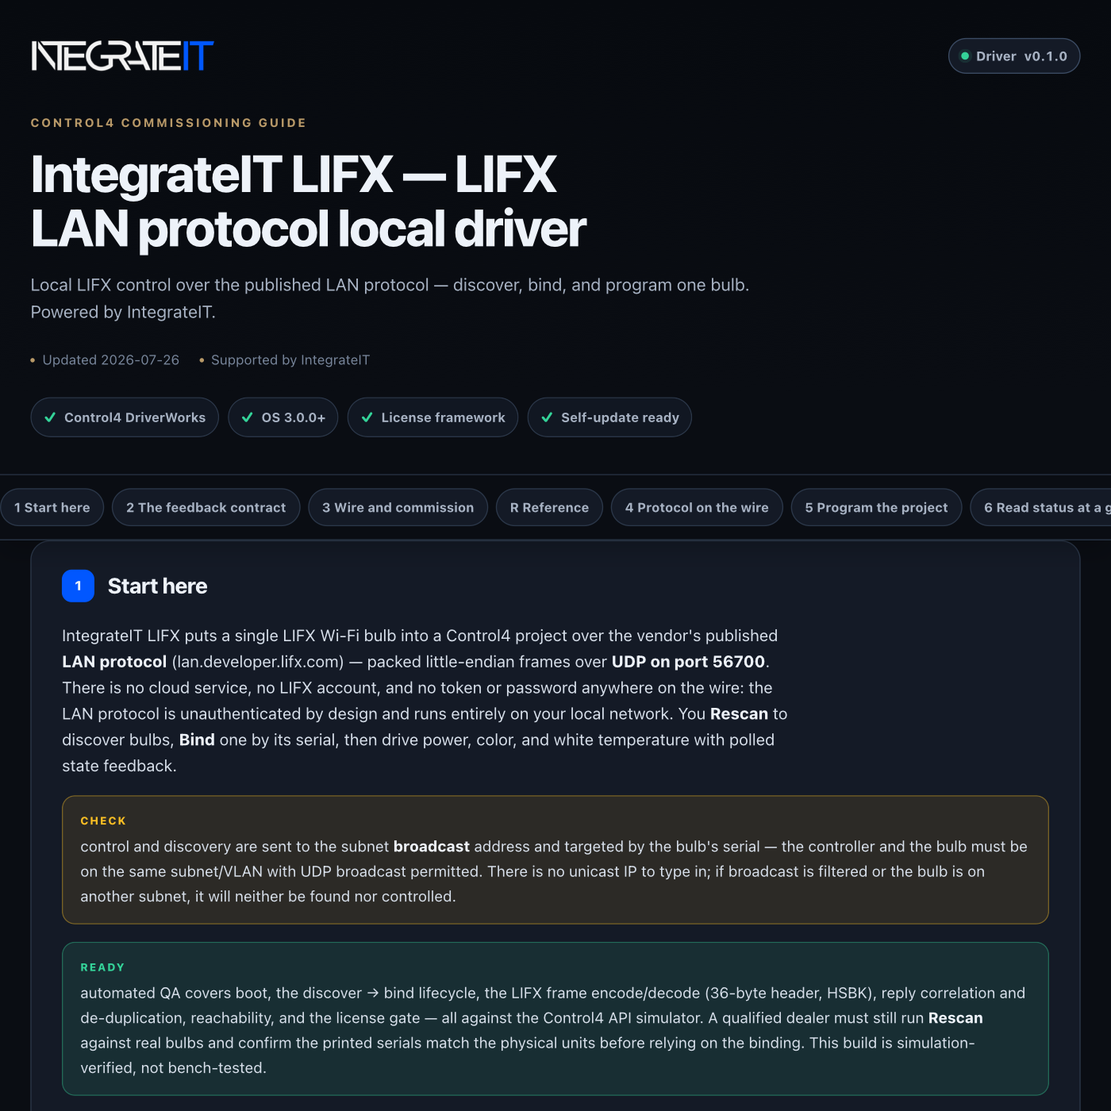
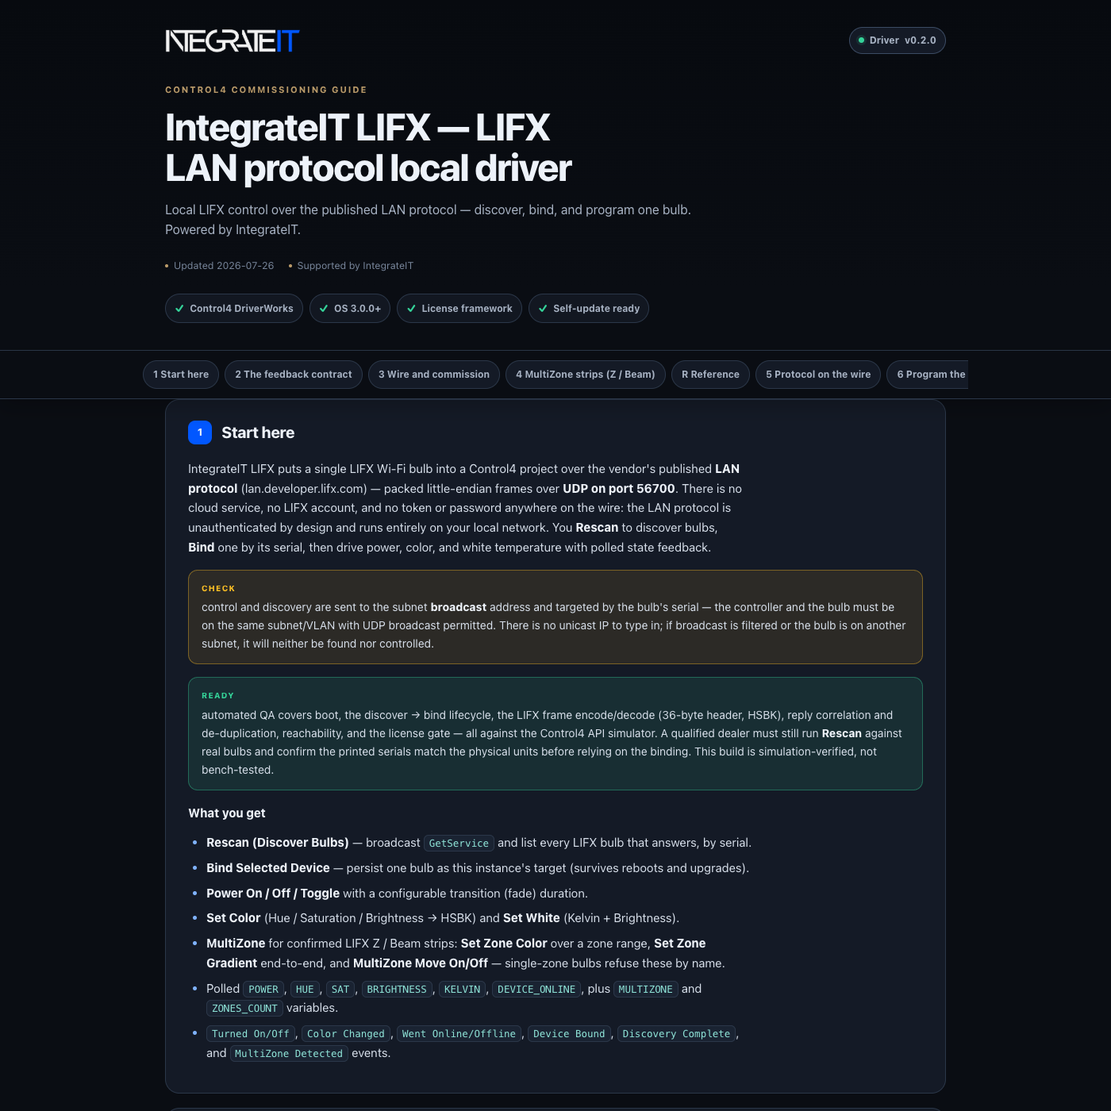
control4: publish driver channel (integrateit_lifx 0.2.0)

diff --git a/control4/integrateit_lifx/documentation.html b/control4/integrateit_lifx/documentation.html
@@ -179,7 +179,7 @@ td code{white-space:normal}
     <div class="wrap">
       <div class="brandbar">
[1 lines of base64/hex data omitted]
-        <span class="version"><span class="word">Driver</span> v0.1.0</span>
+        <span class="version"><span class="word">Driver</span> v0.2.0</span>
       </div>
       <p class="eyebrow">Control4 commissioning guide</p>
       <h1>IntegrateIT LIFX — LIFX LAN protocol local driver</h1>
@@ -198,7 +198,7 @@ td code{white-space:normal}
   </header>
 
   <div class="toc-wrap">
-    <nav class="toc wrap" aria-label="Documentation sections"><a href="#overview">1 Start here</a><a href="#feedback">2 The feedback contract</a><a href="#setup">3 Wire and commission</a><a href="#reference">R Reference</a><a href="#protocol">4 Protocol on the wire</a><a href="#programming">5 Program the project</a><a href="#status">6 Read status at a glance</a><a href="#troubleshooting">7 Troubleshoot methodically</a><a href="#trust">8 Ownership, privacy, and licensing</a><a href="#licensing">L Licensing</a><a href="#updates">U Automatic updates</a><a href="#changelog">V Version history</a></nav>
+    <nav class="toc wrap" aria-label="Documentation sections"><a href="#overview">1 Start here</a><a href="#feedback">2 The feedback contract</a><a href="#setup">3 Wire and commission</a><a href="#multizone">4 MultiZone strips (Z / Beam)</a><a href="#reference">R Reference</a><a href="#protocol">5 Protocol on the wire</a><a href="#programming">6 Program the project</a><a href="#status">7 Read status at a glance</a><a href="#troubleshooting">8 Troubleshoot methodically</a><a href="#trust">9 Ownership, privacy, and licensing</a><a href="#licensing">L Licensing</a><a href="#updates">U Automatic updates</a><a href="#changelog">V Version history</a></nav>
   </div>
 
   <main class="wrap">
@@ -213,8 +213,9 @@ td code{white-space:normal}
     <li><b>Bind Selected Device</b> — persist one bulb as this instance's target (survives reboots and upgrades).</li>
     <li><b>Power On / Off / Toggle</b> with a configurable transition (fade) duration.</li>
     <li><b>Set Color</b> (Hue / Saturation / Brightness → HSBK) and <b>Set White</b> (Kelvin + Brightness).</li>
-    <li>Polled <code>POWER</code>, <code>HUE</code>, <code>SAT</code>, <code>BRIGHTNESS</code>, <code>KELVIN</code>, and <code>DEVICE_ONLINE</code> variables.</li>
-    <li><code>Turned On/Off</code>, <code>Color Changed</code>, <code>Went Online/Offline</code>, <code>Device Bound</code>, and <code>Discovery Complete</code> events.</li>
+    <li><b>MultiZone</b> for confirmed LIFX Z / Beam strips: <b>Set Zone Color</b> over a zone range, <b>Set Zone Gradient</b> end-to-end, and <b>MultiZone Move On/Off</b> — single-zone bulbs refuse these by name.</li>
+    <li>Polled <code>POWER</code>, <code>HUE</code>, <code>SAT</code>, <code>BRIGHTNESS</code>, <code>KELVIN</code>, <code>DEVICE_ONLINE</code>, plus <code>MULTIZONE</code> and <code>ZONES_COUNT</code> variables.</li>
+    <li><code>Turned On/Off</code>, <code>Color Changed</code>, <code>Went Online/Offline</code>, <code>Device Bound</code>, <code>Discovery Complete</code>, and <code>MultiZone Detected</code> events.</li>
   </ul>
 </section>
 
@@ -236,9 +237,28 @@ td code{white-space:normal}
     <li>Run <b>Power On</b> (or <b>Set Color</b>) and watch the bulb react, then confirm <code>POWER</code>/<code>DEVICE_ONLINE</code> update on the next poll.</li>
     <li>Reboot the controller and confirm <code>Bound Device</code> still names the same serial — the binding is persisted, not re-discovered.</li>
   </ol>
+</section>
+
+<section class="card" id="multizone" data-card="multizone">
+  <h2><span class="n">4</span> MultiZone strips (Z / Beam)</h2>
+  <p>A LIFX <b>Z</b> or <b>Beam</b> is a strip of individually addressable <b>zones</b>. This driver drives those zones over the vendor's extended-zone message, but only after it has <b>positively confirmed</b> the bound bulb is multizone — it never assumes.</p>
+  <p>Capability is detected honestly, from the device itself:</p>
+  <ul>
+    <li>On bind and on each poll while still unknown, the driver asks <code>GetVersion</code> (32) and <code>GetExtendedColorZones</code> (511). A <code>StateVersion</code> (33) whose <b>product id</b> is a known multizone model (LIFX Z 31/32, Beam 38 — the embedded subset of LIFX's official products registry), <b>or</b> a <code>StateExtendedColorZones</code> (512) reply, flips <code>MULTIZONE</code> to <code>yes</code>, publishes the real <code>ZONES_COUNT</code>, and fires <code>MultiZone Detected</code>.</li>
+    <li>A product id we recognize as a plain bulb sets <code>MULTIZONE</code> to <code>no</code>.</li>
+    <li>If nothing has answered yet, <code>MULTIZONE</code> stays <code>unknown</code> and <b>zone commands are refused</b> — the Status line says capability isn't confirmed and to run <b>Detect MultiZone</b>. Run it manually against a Z/Beam if you don't want to wait for the poll.</li>
+  </ul>
+  <p>Once confirmed:</p>
+  <ul>
+    <li><b>Set Zone Color</b> paints zones <b>Zone Start .. Zone End</b> (0-based, inclusive) one HSBK color from Hue/Saturation/Brightness/Kelvin.</li>
+    <li><b>Set Zone Gradient</b> ramps from the start color (Hue/Saturation/Brightness) to the end color (<b>Hue End</b> / <b>Saturation End</b> / <b>Brightness End</b>), Kelvin shared, spread across the detected zone count — or the <b>Zones (strip length)</b> you configured until the bulb reports its own.</li>
+    <li><b>MultiZone Move On/Off</b> starts/stops the LIFX Move effect at <b>Move Speed (ms)</b>.</li>
+  </ul>
+  <div class="note warn">a single strip can carry more than 82 zones, but one extended-zone message holds at most <b>82</b> HSBK colors. Longer strips are split automatically: every message but the last is sent with <b>apply = NO_APPLY</b> and the final one with <b>apply = APPLY</b>, so the whole strip lands in one atomic update rather than visibly repainting in bands.</div>
+  <div class="note"><b>extended zones need recent strip firmware.</b> An older LIFX Z may need a firmware update (in the LIFX app) before <code>SetExtendedColorZones</code> takes effect; the legacy <code>SetColorZones</code> (501) path is intentionally not written. A single-zone bulb refuses every zone command by name — nothing is sent to the wire.</div>
 <section class="card" id="reference" data-card="reference">
   <h2><span class="n">R</span> Reference</h2>
-  <p>Generated from the driver manifest at build time — always matches this build (v0.1.0).</p>
+  <p>Generated from the driver manifest at build time — always matches this build (v0.2.0).</p>
   <h3>Properties</h3>
   <table>
     <tr><th>Property</th><th>Type</th><th>Default</th><th>Description</th></tr>
@@ -250,7 +270,14 @@ td code{white-space:normal}
     <tr><td><code>Hue</code></td><td>INTEGER 0–360</td><td><code>200</code></td><td>Hue in degrees (0-360) sent by Set Color, together with Saturation and Brightness.</td></tr>
     <tr><td><code>Saturation</code></td><td>INTEGER 0–100</td><td><code>100</code></td><td>Saturation percent (0-100) sent by Set Color.</td></tr>
     <tr><td><code>Brightness</code></td><td>INTEGER 0–100</td><td><code>100</code></td><td>Brightness percent (0-100) sent by Set Color and Set White.</td></tr>
-    <tr><td><code>Kelvin</code></td><td>INTEGER 1500–9000</td><td><code>3500</code></td><td>White color temperature in Kelvin (1500-9000) sent by Set White.</td></tr>
+    <tr><td><code>Kelvin</code></td><td>INTEGER 1500–9000</td><td><code>3500</code></td><td>White color temperature in Kelvin (1500-9000) sent by Set White and shared by the gradient endpoints.</td></tr>
+    <tr><td><code>Zones (strip length)</code></td><td>INTEGER 1–2048</td><td><code>16</code></td><td>Number of zones on your LIFX Z / Beam, used to spread Set Zone Gradient. Reflected in ZONES_COUNT until the bulb reports its own count.</td></tr>
+    <tr><td><code>Zone Start</code></td><td>INTEGER 0–2047</td><td><code>0</code></td><td>First zone (0-based) painted by Set Zone Color.</td></tr>
+    <tr><td><code>Zone End</code></td><td>INTEGER 0–2047</td><td><code>0</code></td><td>Last zone (0-based, inclusive) painted by Set Zone Color.</td></tr>
+    <tr><td><code>Hue End</code></td><td>INTEGER 0–360</td><td><code>0</code></td><td>Hue (degrees) of the far end of Set Zone Gradient; the near end is the Hue property.</td></tr>
+    <tr><td><code>Saturation End</code></td><td>INTEGER 0–100</td><td><code>100</code></td><td>Saturation percent of the far end of Set Zone Gradient.</td></tr>
+    <tr><td><code>Brightness End</code></td><td>INTEGER 0–100</td><td><code>100</code></td><td>Brightness percent of the far end of Set Zone Gradient.</td></tr>
+    <tr><td><code>Move Speed (ms)</code></td><td>INTEGER 100–300000</td><td><code>5000</code></td><td>Cycle time for the MultiZone Move effect (ms per pass along the strip).</td></tr>
     <tr><td><code>Device Status</code> <span class="pill blue">read-only</span></td><td>STRING</td><td><code>Unknown</code></td><td>Live discovery/bind/reachability state and the last polled bulb state.</td></tr>
   </table>
   <p><b>Standard IntegrateIT properties</b> — licensing, self-update, and diagnostics, auto-injected into every IntegrateIT driver:</p>
@@ -276,6 +303,10 @@ td code{white-space:normal}
     <tr><td><code>Toggle Power</code></td><td>Toggle power based on the last polled state (turns on if the state is not yet known).</td></tr>
     <tr><td><code>Set Color</code></td><td>Set color from the Hue, Saturation, and Brightness properties (HSBK), with the configured transition.</td></tr>
     <tr><td><code>Set White</code></td><td>Set white from the Kelvin and Brightness properties (saturation 0), with the configured transition.</td></tr>
+    <tr><td><code>Set Zone Color</code></td><td>Paint zones Zone Start..Zone End of a confirmed LIFX Z / Beam one HSBK color via SetExtendedColorZones (auto-chunked at 82 zones). Refused on single-zone bulbs.</td></tr>
+    <tr><td><code>Set Zone Gradient</code></td><td>Ramp a confirmed strip from the start color (Hue/Saturation/Brightness) to the end color (Hue End/Saturation End/Brightness End) across its zones. Refused on single-zone bulbs.</td></tr>
+    <tr><td><code>MultiZone Move On</code></td><td>Start the LIFX Move effect on a confirmed strip (SetMultiZoneEffect) at Move Speed. Refused on single-zone bulbs.</td></tr>
+    <tr><td><code>MultiZone Move Off</code></td><td>Stop the LIFX Move effect on a confirmed strip.</td></tr>
     <tr><td><code>Refresh State</code></td><td>Poll the bound bulb now instead of waiting for the next interval.</td></tr>
   </table>
   <h3>Actions (Composer Actions tab)</h3>
@@ -283,6 +314,7 @@ td code{white-space:normal}
     <tr><th>Action</th><th>Command</th></tr>
     <tr><td>Rescan (Discover Bulbs)</td><td><code>RESCAN</code></td></tr>
     <tr><td>Bind Selected Device</td><td><code>BIND</code></td></tr>
+    <tr><td>Detect MultiZone</td><td><code>DETECT_MZ</code></td></tr>
     <tr><td>Unbind</td><td><code>UNBIND</code></td></tr>
     <tr><td>Ping Bulb (Echo)</td><td><code>ECHO</code></td></tr>
     <tr><td>Print Configuration</td><td><code>PRINT_CONFIG</code></td></tr>
@@ -300,6 +332,7 @@ td code{white-space:normal}
     <tr><td>16</td><td>Went Offline</td><td>The bound bulb stopped replying within the poll window.</td></tr>
     <tr><td>17</td><td>Device Bound</td><td>A discovered bulb was bound as this driver's target.</td></tr>
     <tr><td>18</td><td>Discovery Complete</td><td>A Rescan finished collecting StateService replies (see the discovered list in Debug).</td></tr>
+    <tr><td>19</td><td>MultiZone Detected</td><td>The bound bulb was positively confirmed as a multizone LIFX Z / Beam (by product id or a StateExtendedColorZones reply); zone commands are now allowed.</td></tr>
     <tr><td>1001</td><td>Update Available <span class="pill blue">shared</span></td><td>A newer driver version is available from IntegrateIT</td></tr>
     <tr><td>1002</td><td>License Problem <span class="pill blue">shared</span></td><td>License key invalid, revoked, or bound to a different controller</td></tr>
   </table>
@@ -307,7 +340,7 @@ td code{white-space:normal}
 </section>
 
 <section class="card" id="protocol" data-card="protocol">
-  <h2><span class="n">4</span> Protocol on the wire</h2>
+  <h2><span class="n">5</span> Protocol on the wire</h2>
   <p>Every frame is a <b>36-byte header + payload</b>, all little-endian. The header carries a size, a 16-bit protocol/flags field (<code>protocol 1024 | addressable | tagged</code>), the 32-bit <code>source</code>, the 6-byte target <b>serial</b>, <code>res</code>/<code>ack</code> flag bits, an 8-bit <code>sequence</code>, and a 16-bit message <code>type</code>. Color is <b>HSBK</b> — four <code>u16</code> values (hue, saturation, brightness, Kelvin).</p>
   <ul>
     <li><b>Discovery</b> — <code>GetService</code> (2, tagged, target = all) → each bulb answers <code>StateService</code> (3) naming its UDP service and port.</li>
@@ -315,21 +348,24 @@ td code{white-space:normal}
     <li><b>Color / White</b> — <code>SetColor</code> (102): reserved byte + HSBK + duration <code>u32</code>. White is HSBK with saturation 0.</li>
     <li><b>Feedback</b> — <code>Light Get</code> (101, <code>res_required</code>) → <code>State</code> (107): HSBK + power.</li>
     <li><b>Keepalive</b> — <code>EchoRequest</code> (58) → <code>EchoResponse</code> (59).</li>
+    <li><b>Capability</b> — <code>GetVersion</code> (32) → <code>StateVersion</code> (33): product id; <code>GetExtendedColorZones</code> (511) → <code>StateExtendedColorZones</code> (512): zones_count + zone colors.</li>
+    <li><b>MultiZone</b> — <code>SetExtendedColorZones</code> (510): duration <code>u32</code>, apply <code>u8</code>, zone_index <code>u16</code>, colors_count <code>u8</code>, then a fixed 82-entry HSBK array. <code>SetMultiZoneEffect</code> (508) runs the Move effect.</li>
   </ul>
   <p>The LAN protocol has <b>no error packets</b> — malformed or excessively frequent frames simply cause "unexpected device behavior," so the driver paces itself on fixed timers (no retry storms) and turn <code>Debug Mode → Print</code> on to watch each frame's <b>type and sequence</b> (never raw bytes) in the Lua output window.</p>
 </section>
 
 <section class="card" id="programming" data-card="programming">
-  <h2><span class="n">5</span> Program the project</h2>
+  <h2><span class="n">6</span> Program the project</h2>
   <ul>
     <li>When <b>Discovery Complete</b> fires → notify the installer that the scan finished, then read the printed serials.</li>
     <li>When <b>Went Offline</b> fires → surface a "bulb unreachable" notification or fall back to another light.</li>
     <li>When <b>Turned On</b> fires → run a room scene; use the <code>BRIGHTNESS</code>/<code>KELVIN</code> variables to mirror the bulb's level elsewhere.</li>
+    <li>When <b>MultiZone Detected</b> fires (or gate on <code>MULTIZONE == yes</code>) → enable a strip scene: set <b>Set Zone Gradient</b> for a sunrise wash, or <b>MultiZone Move On</b> for a moving accent.</li>
   </ul>
 </section>
 
 <section class="card" id="status" data-card="status">
-  <h2><span class="n">6</span> Read status at a glance</h2>
+  <h2><span class="n">7</span> Read status at a glance</h2>
   <table>
     <tr><th>Property / variable</th><th>Meaning</th></tr>
     <tr><td><code>Device Status</code></td><td>Live discover/bind/reachability line (<code>Scanning…</code>, <code>Discovered N bulb(s)</code>, <code>Online — On, 80%</code>, <code>Offline …</code>).</td></tr>
@@ -338,23 +374,27 @@ td code{white-space:normal}
     <tr><td><code>POWER</code></td><td><code>true</code>/<code>false</code> from the last <code>State</code> reply.</td></tr>
     <tr><td><code>HUE</code> / <code>SAT</code> / <code>BRIGHTNESS</code> / <code>KELVIN</code></td><td>Last polled color, converted to degrees / percent / percent / Kelvin.</td></tr>
     <tr><td><code>IS_BOUND</code></td><td><code>true</code> once a bulb is bound.</td></tr>
+    <tr><td><code>MULTIZONE</code></td><td><code>unknown</code> until the bulb answers, then <code>yes</code> (Z/Beam — zone commands allowed) or <code>no</code> (single-zone). Safe to gate strip programming on <code>yes</code>.</td></tr>
+    <tr><td><code>ZONES_COUNT</code></td><td>Zone count: the device's real count once read, else the configured <b>Zones (strip length)</b>.</td></tr>
   </table>
 </section>
 
 <section class="card" id="troubleshooting" data-card="troubleshooting">
-  <h2><span class="n">7</span> Troubleshoot methodically</h2>
+  <h2><span class="n">8</span> Troubleshoot methodically</h2>
   <table>
     <tr><th>Symptom</th><th>Likely cause</th><th>Fix</th></tr>
     <tr><td>Rescan finds nothing</td><td>Bulb on another subnet/VLAN, or broadcast filtered</td><td>Put the controller and bulb on the same subnet; allow UDP broadcast on port 56700.</td></tr>
     <tr><td>Bound but <code>DEVICE_ONLINE</code> stays false</td><td>Wrong serial, or the bulb is off/asleep</td><td>Rescan and re-copy the exact serial; confirm the bulb is powered.</td></tr>
     <tr><td>Commands do nothing</td><td>No bulb bound, or Strict + unlicensed</td><td>Bind a bulb first; check <code>License Status</code> if Enforcement = Strict.</td></tr>
     <tr><td>Status shows "Socket not ready"</td><td>The UDP socket has not reported ONLINE yet</td><td>Wait a moment and retry; confirm the controller's network binding is up.</td></tr>
+    <tr><td>Zone command refused</td><td>Capability not confirmed, or the bulb is single-zone</td><td>Run <b>Detect MultiZone</b> against a LIFX Z / Beam; <code>MULTIZONE</code> must read <code>yes</code>. A plain bulb has no zones.</td></tr>
+    <tr><td>Zones don't change on a Z/Beam</td><td>Strip firmware predates extended zones</td><td>Update the strip in the LIFX app; <code>SetExtendedColorZones</code> needs recent firmware.</td></tr>
   </table>
   <div class="note">turn on <code>Debug Mode → Print</code> to watch every frame's type + sequence and the discovered list in the Lua output window. Raw payload bytes are never logged.</div>
 </section>
 
 <section class="card" id="trust" data-card="trust">
-  <h2><span class="n">8</span> Ownership, privacy, and licensing</h2>
+  <h2><span class="n">9</span> Ownership, privacy, and licensing</h2>
   <p>Nothing leaves the controller and nothing leaves the LAN. The LIFX LAN protocol is <b>unauthenticated</b> — there is no token, password, or cloud key to store, so none can be logged or leaked; the only caution is that anyone on the same broadcast domain can address the bulb, so keep it on a trusted segment. The bound target (a serial) lives in <code>PersistData</code> on the controller and is only ever logged as its plain serial. <b>Set/Toggle/Color/White</b> and <b>Bind/Unbind</b> are gated by the license — re-checked again at wire-write time — so in Strict mode an unlicensed controller sends nothing; the default Lenient mode lets a dealer commission before a key is minted. The driver self-updates from the IntegrateIT channel.</p>
 </section>
 <section class="card" id="licensing" data-card="licensing">
@@ -404,7 +444,9 @@ td code{white-space:normal}
     <section class="card" id="changelog" data-card="changelog">
   <h2><span class="n">V</span> Version history</h2>
   <div class="chg">
-    <div class="rel"><b>v0.1.0</b> <span class="pill green">current</span><span class="d">2026-07-26</span>
+    <div class="rel"><b>v0.2.0</b> <span class="pill green">current</span><span class="d">2026-07-26</span>
+      <ul><li>MultiZone for LIFX Z / Beam strips over SetExtendedColorZones (type 510). Set Zone Color paints a Zone Start..Zone End range one HSBK color; Set Zone Gradient ramps start-&gt;end color across the strip. Both pack the fixed 664-byte payload (duration u32, apply u8, zone_index u16, colors_count u8, 82-entry HSBK array) little-endian; strips longer than 82 zones auto-chunk with apply=NO_APPLY on every message but the last and apply=APPLY on the final one, so the whole strip lands in one atomic update.</li><li>Honest capability detection: on bind and while still unknown, the driver asks GetVersion (32) and GetExtendedColorZones (511). A StateVersion product id in the embedded multizone subset (LIFX Z 31/32, Beam 38, per the official products registry) or any StateExtendedColorZones (512) reply flips MULTIZONE to yes, publishes the real ZONES_COUNT, and fires MultiZone Detected. An unlisted product id is treated as single-zone. Until something positively confirms, capability stays unknown and zone commands are refused.</li><li>Single-zone bulbs refuse every zone/effect command by name — nothing reaches the wire — and the refusal states the reason (single-zone, or capability not yet confirmed; run Detect MultiZone).</li><li>MultiZone Move On/Off runs the LIFX Move effect via SetMultiZoneEffect (508) at the configured Move Speed. Every multizone control path re-checks the license at wire-write time, exactly like the single-bulb commands.</li><li>New variables MULTIZONE (unknown/yes/no) and ZONES_COUNT, new MultiZone Detected event, and new Set Zone Color / Set Zone Gradient / MultiZone Move On/Off commands, Detect MultiZone action, and the zone/gradient/move-speed properties. Single-bulb behavior and the 0.1.0 reachability-honesty and rebind-reset fixes are unchanged.</li></ul></div>
+    <div class="rel"><b>v0.1.0</b><span class="d">2026-07-26</span>
       <ul><li>Initial release candidate: single-bulb control over the LIFX LAN protocol (UDP binary, port 56700, lan.developer.lifx.com). No cloud, no LIFX account, no token on the wire.</li><li>Broadcast discovery: Rescan sends GetService (type 2, tagged) to the subnet broadcast address and collects StateService (type 3) replies, keyed and de-duplicated by the responder's serial. Paste a serial into Discovered Device and run Bind Selected Device; the bound target is persisted across reboots and driver upgrades.</li><li>Control: Power On/Off/Toggle via SetLightPower (type 117) with a transition duration; Set Color via SetColor (type 102, HSBK) from Hue/Saturation/Brightness; Set White via SetColor with saturation 0 from Kelvin/Brightness. Every control path re-checks the license at wire-write time.</li><li>Feedback: Light Get (type 101, res_required) is polled; the State (type 107) reply is parsed into POWER, HUE, SAT, BRIGHTNESS, KELVIN and DEVICE_ONLINE, firing Turned On/Off, Color Changed and Went Online/Offline. Replies are correlated by source + sequence; unknown→known baseline adoption fires no state events.</li><li>Keepalive: EchoRequest (type 58) proves reachability between polls; a missing reply within the poll window flips the bulb Offline.</li><li>Wire hygiene: the RX path tolerates arbitrary datagram boundaries and junk (bounded frame walk, no resync loops), drops sends while the socket is offline, and never logs raw frame bytes — Debug prints the frame type + sequence only. The LIFX LAN protocol carries no secret, so nothing secret can leak; the IntegrateIT license key is never printed.</li><li>Fix (reachability honesty): a lost LAN socket now drops reachability (`ApplyReach(false)`) instead of stranding `DEVICE_ONLINE` asserted true. Because polling stops when the socket goes offline, the missed-poll path could never fire again to correct the variable — automation told to gate on `DEVICE_ONLINE` would have seen a frozen "online" for a bulb the driver could no longer reach.</li><li>Fix (rebind reachability): binding a new serial now resets reachability to unknown and publishes `DEVICE_ONLINE` false, instead of inheriting the previously-bound bulb's last reply. A freshly-bound (possibly dead) target no longer reports online until it actually answers.</li><li>Known limits: single bulb per instance; broadcast reachability required (same subnet); no multi-zone/tile/HEV/relay extensions; polled feedback, not push; serial-only discovery labels.</li></ul></div>
   </div>
 </section>

diff --git a/control4/integrateit_lifx/CHANGELOG.md b/control4/integrateit_lifx/CHANGELOG.md
@@ -1,5 +1,12 @@
 # Changelog — IntegrateIT LIFX
 
+## [0.2.0] - 2026-07-26
+- MultiZone for LIFX Z / Beam strips over SetExtendedColorZones (type 510). Set Zone Color paints a Zone Start..Zone End range one HSBK color; Set Zone Gradient ramps start->end color across the strip. Both pack the fixed 664-byte payload (duration u32, apply u8, zone_index u16, colors_count u8, 82-entry HSBK array) little-endian; strips longer than 82 zones auto-chunk with apply=NO_APPLY on every message but the last and apply=APPLY on the final one, so the whole strip lands in one atomic update.
+- Honest capability detection: on bind and while still unknown, the driver asks GetVersion (32) and GetExtendedColorZones (511). A StateVersion product id in the embedded multizone subset (LIFX Z 31/32, Beam 38, per the official products registry) or any StateExtendedColorZones (512) reply flips MULTIZONE to yes, publishes the real ZONES_COUNT, and fires MultiZone Detected. An unlisted product id is treated as single-zone. Until something positively confirms, capability stays unknown and zone commands are refused.
+- Single-zone bulbs refuse every zone/effect command by name — nothing reaches the wire — and the refusal states the reason (single-zone, or capability not yet confirmed; run Detect MultiZone).
+- MultiZone Move On/Off runs the LIFX Move effect via SetMultiZoneEffect (508) at the configured Move Speed. Every multizone control path re-checks the license at wire-write time, exactly like the single-bulb commands.
+- New variables MULTIZONE (unknown/yes/no) and ZONES_COUNT, new MultiZone Detected event, and new Set Zone Color / Set Zone Gradient / MultiZone Move On/Off commands, Detect MultiZone action, and the zone/gradient/move-speed properties. Single-bulb behavior and the 0.1.0 reachability-honesty and rebind-reset fixes are unchanged.
+
 ## [0.1.0] - 2026-07-26
 - Initial release candidate: single-bulb control over the LIFX LAN protocol (UDP binary, port 56700, lan.developer.lifx.com). No cloud, no LIFX account, no token on the wire.
 - Broadcast discovery: Rescan sends GetService (type 2, tagged) to the subnet broadcast address and collects StateService (type 3) replies, keyed and de-duplicated by the responder's serial. Paste a serial into Discovered Device and run Bind Selected Device; the bound target is persisted across reboots and driver upgrades.
